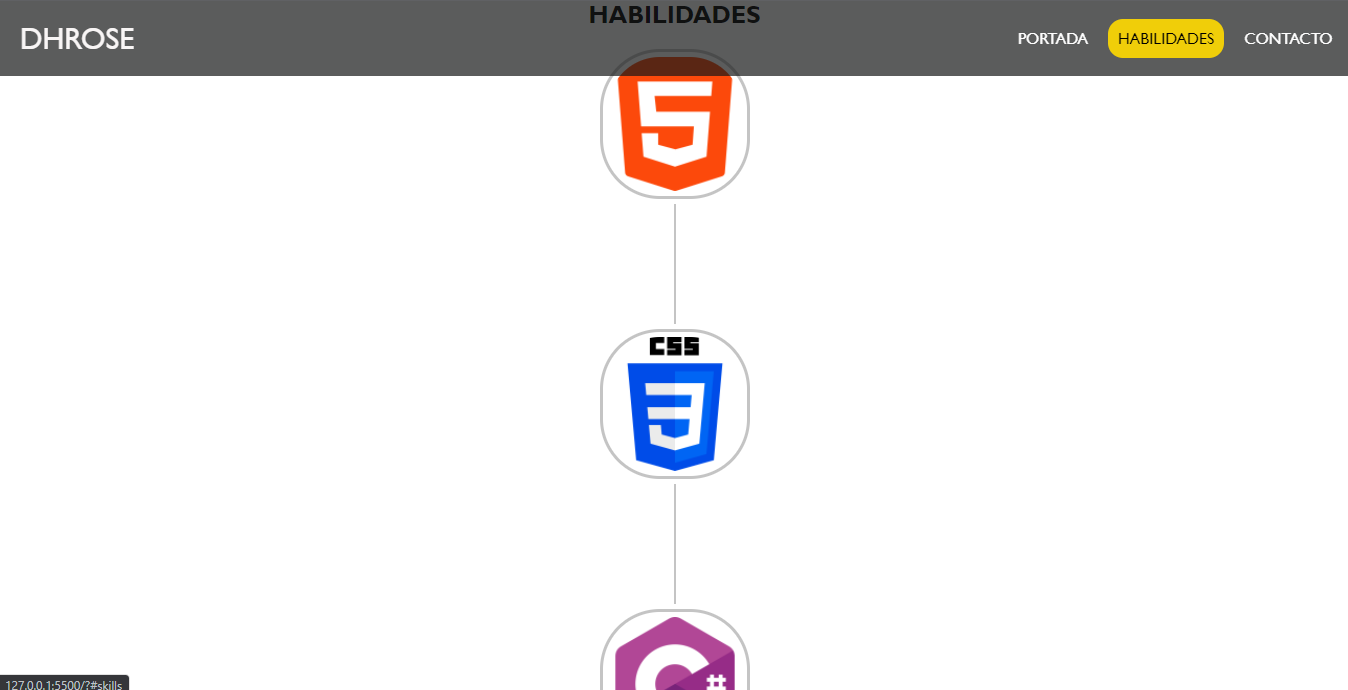
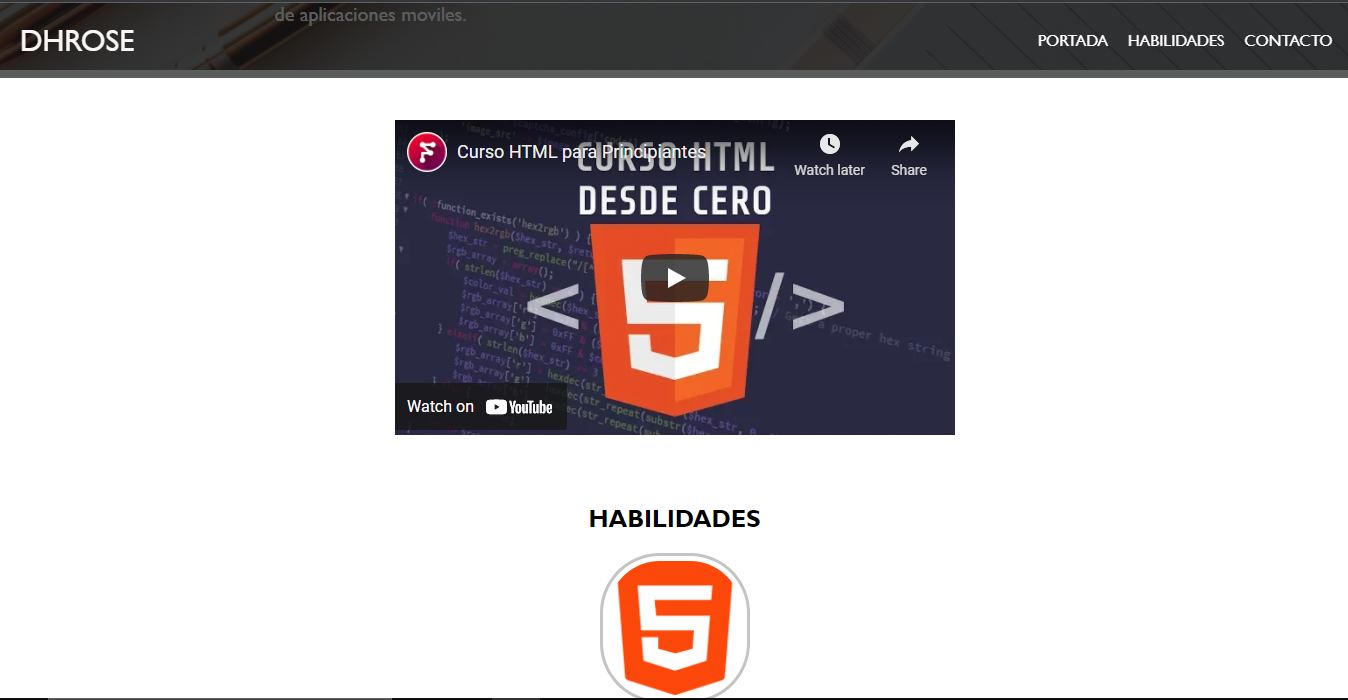
personal web v1 completed

diff --git a/index.html b/index.html
@@ -37,11 +37,15 @@
                         concerniente a mi carrera, practicar basketball, al igual que, disfrutar de peliculas y series. Mis intereses
                         en el desarrollo de software son el desarrollo web y el desarrollo de aplicaciones moviles. </p>
                 </div>
+                
             </div>
         </header>
     </div>
 
     <div class="section">
+        <div class="flex video">
+            <iframe width="560" height="315" src="https://www.youtube.com/embed/rbuYtrNUxg4" title="YouTube video player" frameborder="0" allow="accelerometer; autoplay; clipboard-write; encrypted-media; gyroscope; picture-in-picture" allowfullscreen></iframe>    
+        </div>
         <div class="skills center-text" id="skills">
             <h2 class="skills uppercase flex">Habilidades</h2>
             <div class="center flex">

diff --git a/css/style.css b/css/style.css
@@ -216,3 +216,7 @@ header{
     color: white;
     background-image: linear-gradient(to right, #a8caba 0%, #5d4157 100%);
 }
+.video{
+    justify-content: center;
+    margin: 50px 0px -30px 0px;
+}
